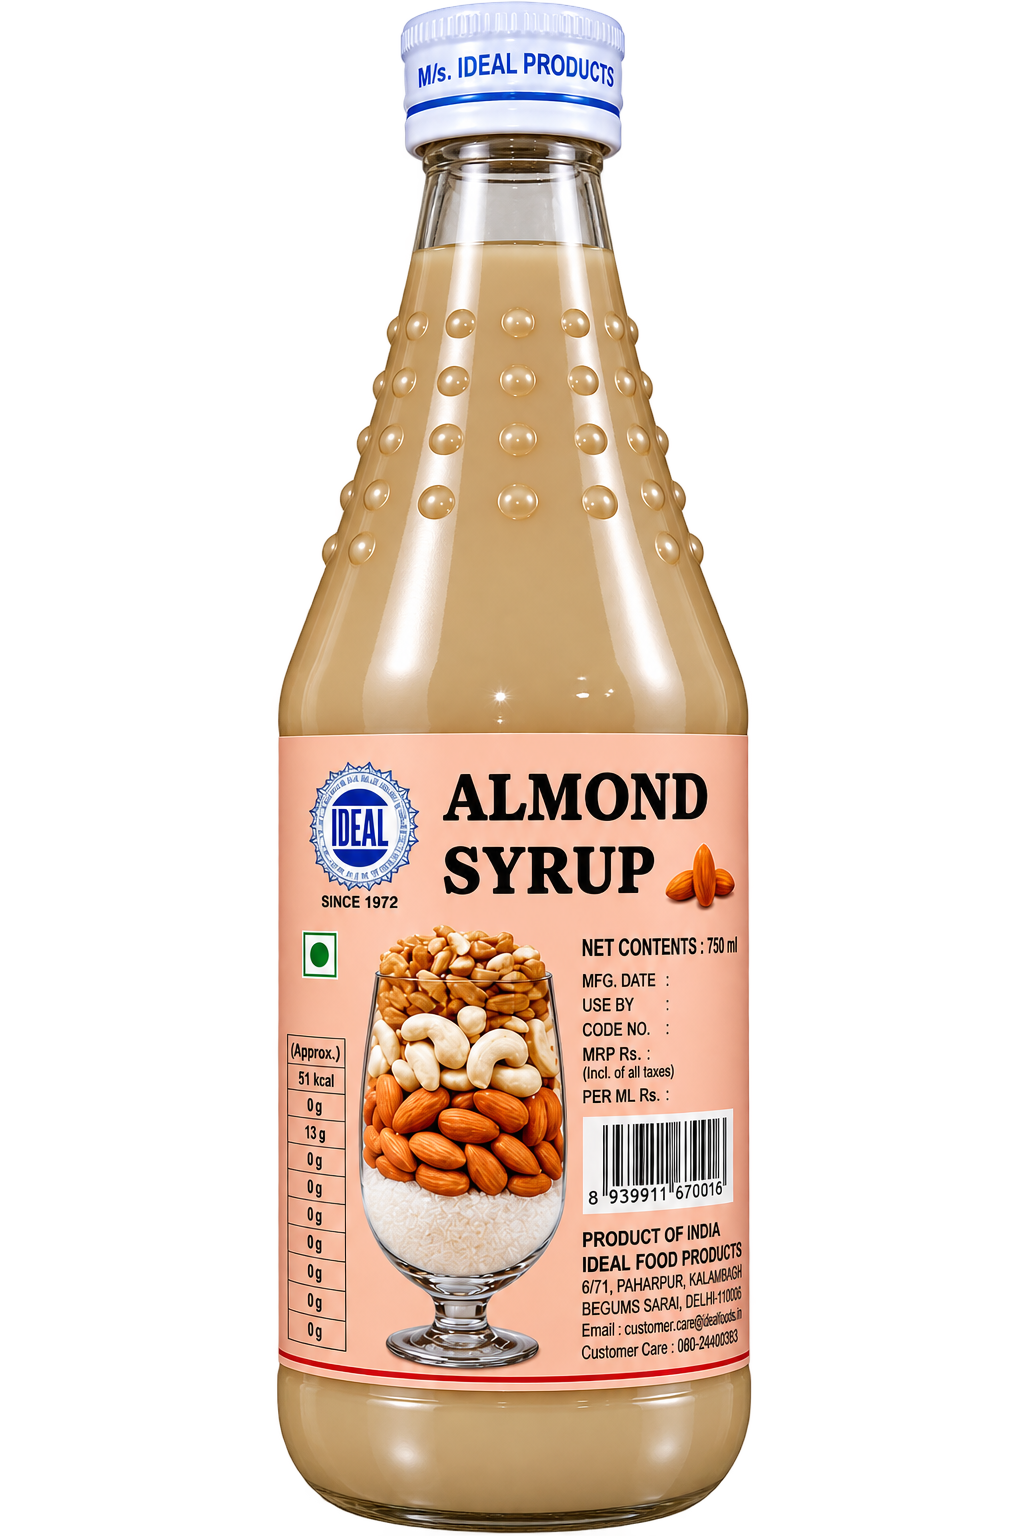
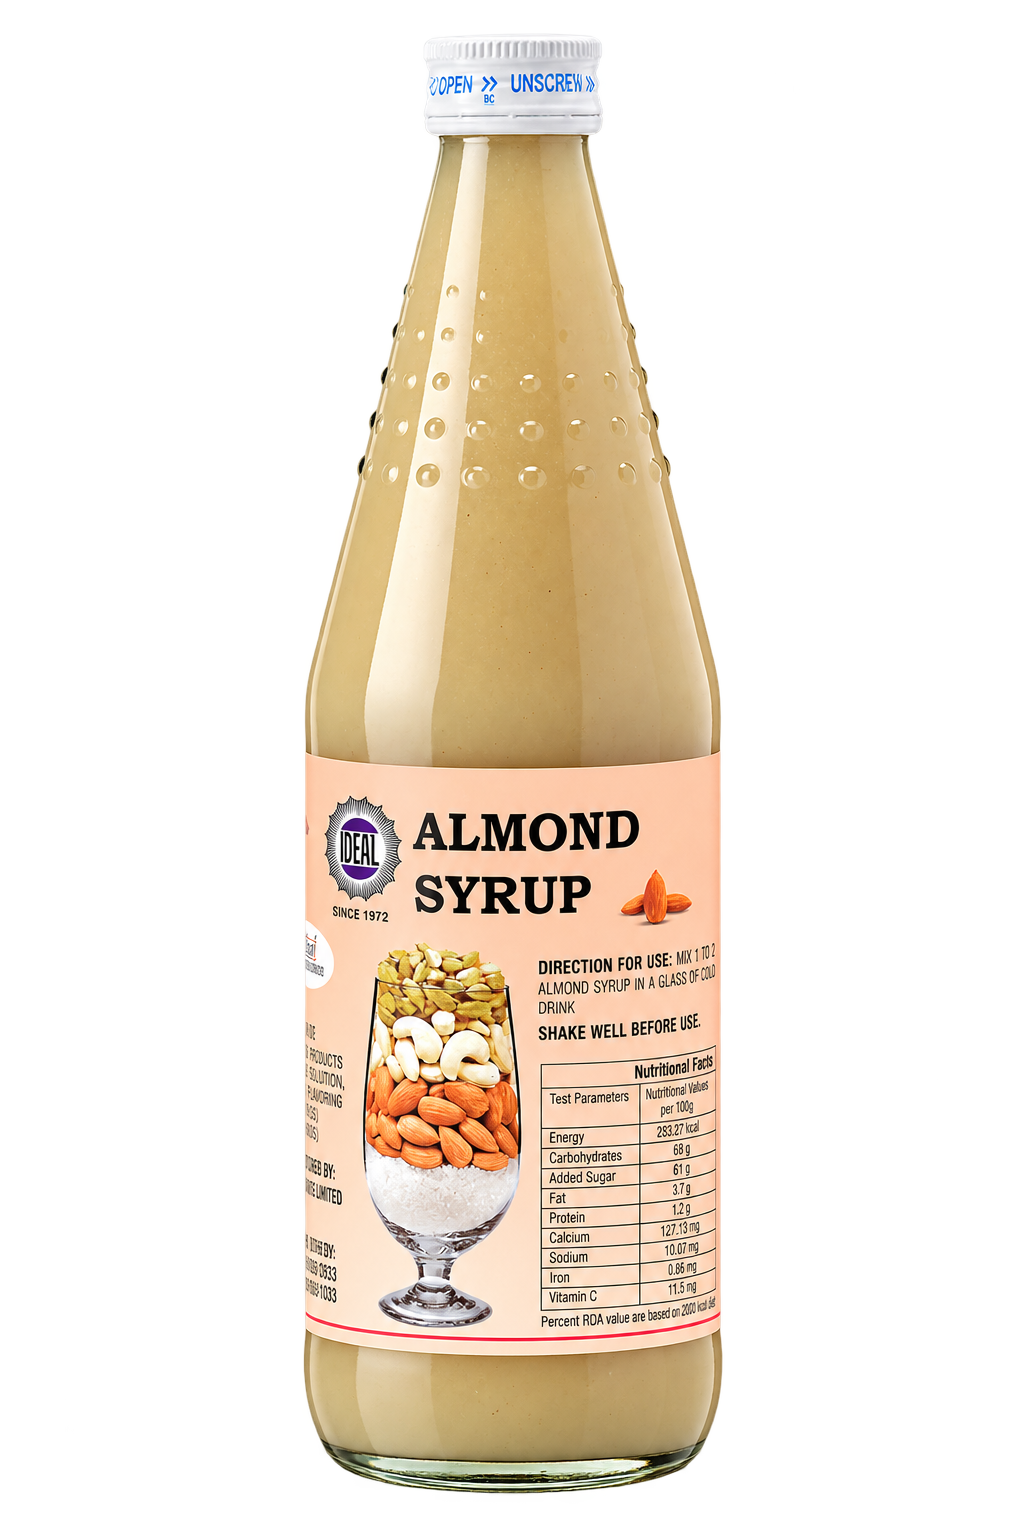
Highlight premium syrups and update product photos

Changed region(s): [[0.25, 0.0, 0.75, 1.0]]

diff --git a/client/pages/Gallery.tsx b/client/pages/Gallery.tsx
@@ -1,3 +1,4 @@
+import PremiumBadge from "@/components/PremiumBadge";
 import { CATALOGUE } from "@/data/catalogue";
 import { CatalogueSection } from "@/components/CatalogueSection";
 import { Link } from "react-router-dom";
@@ -23,18 +24,18 @@ function pastel(hex: string, amount = 0.6): string {
  * Positions follow the reference numbers; slot 15 is the collection enquiry. */
 const MOSAIC_SPANS: { col: number; row: number; cs: number; rs: number }[] = [
   { col: 2, row: 2, cs: 2, rs: 2 },
+  { col: 5, row: 1, cs: 2, rs: 2 },
+  { col: 3, row: 4, cs: 2, rs: 2 },
+  { col: 1, row: 5, cs: 2, rs: 2 },
   { col: 2, row: 1, cs: 1, rs: 1 },
   { col: 1, row: 2, cs: 1, rs: 1 },
   { col: 3, row: 1, cs: 1, rs: 1 },
-  { col: 3, row: 4, cs: 2, rs: 2 },
   { col: 4, row: 3, cs: 1, rs: 1 },
   { col: 1, row: 3, cs: 1, rs: 1 },
   { col: 2, row: 4, cs: 1, rs: 1 },
   { col: 4, row: 2, cs: 1, rs: 1 },
-  { col: 5, row: 1, cs: 2, rs: 2 },
   { col: 5, row: 5, cs: 1, rs: 1 },
   { col: 7, row: 3, cs: 1, rs: 1 },
-  { col: 4, row: 6, cs: 1, rs: 1 },
   { col: 7, row: 2, cs: 1, rs: 1 },
 ];
 
@@ -85,7 +86,7 @@ export default function Gallery() {
         <div className="lg:pt-8">
           <p className="script-accent" style={{ fontSize: 28 }}>Every bottle, every jar</p>
           <h2 className="display-font mt-1" style={{ fontSize: "clamp(30px, 4vw, 48px)", textTransform: "uppercase" }}>Every flavour has a story</h2>
-          <p className="body-ink mt-5 max-w-sm" style={{ fontSize: 15, lineHeight: 1.85 }}>Explore the Ideal shelf in monochrome, then hover to uncover the pastel flavours behind every bottle and jar.</p>
+          <p className="body-ink mt-5 max-w-sm" style={{ fontSize: 15, lineHeight: 1.85 }}>Discover our Premium Collection in the four larger photo tiles: Badam Thandai, Pista, Badam Kesar and Almond. Explore every bottle and jar below.</p>
         </div>
 
         {/* Desktop collage follows the supplied staggered square layout. */}
@@ -104,6 +105,7 @@ export default function Gallery() {
               <Link
                 key={`${product.line.key}-${product.slug}`}
                 to={`${product.line.detailBase}/${product.slug}`}
+                data-premium={product.premium || undefined}
                 className="gallery-tile group relative overflow-hidden rounded-sm border border-[#2E1F14]/20 focus-visible:outline focus-visible:outline-2 focus-visible:outline-offset-2 focus-visible:outline-[#2E1F14]"
                 style={{
                   backgroundColor: "rgba(255,255,255,0.66)",
@@ -113,8 +115,9 @@ export default function Gallery() {
                 }}
                 aria-label={`View ${product.name} ${product.line.suffix}`}
               >
-                <img src={product.cardImage ?? product.image} alt={`Ideal ${product.name}${product.omitSuffix ? "" : ` ${product.line.suffix}`}`} className="absolute inset-0 h-full w-full object-contain p-1.5 transition duration-500 ease-out group-hover:scale-110" />
-                <span className="absolute inset-x-0 bottom-0 bg-gradient-to-t from-black/70 to-transparent px-1 pb-1 pt-4 text-[9px] font-extrabold uppercase leading-tight text-white opacity-0 transition-opacity duration-300 group-hover:opacity-100 group-focus-visible:opacity-100">{product.name}</span>
+                {product.premium && <span className="absolute left-2 top-2 z-10"><PremiumBadge /></span>}
+              <img src={product.cardImage ?? product.image} alt={`Ideal ${product.name}${product.omitSuffix ? "" : ` ${product.line.suffix}`}`} className="absolute inset-0 h-full w-full object-contain p-1.5 transition duration-500 ease-out group-hover:scale-110" />
+                <span className="absolute inset-x-0 bottom-0 bg-gradient-to-t from-black/70 to-transparent px-1 pb-1 pt-4 text-[9px] font-extrabold uppercase leading-tight text-white transition-opacity duration-300 opacity-100 group-focus-visible:opacity-100">{product.name}</span>
               </Link>
             );
           })}
@@ -134,7 +137,8 @@ export default function Gallery() {
             <Link
               key={`${product.line.key}-${product.slug}`}
               to={`${product.line.detailBase}/${product.slug}`}
-              className="gallery-tile group relative overflow-hidden rounded-2xl"
+              data-premium={product.premium || undefined}
+                className="gallery-tile group relative overflow-hidden rounded-2xl"
               style={{
                 backgroundColor: "rgba(255,255,255,0.66)",
                 aspectRatio: "1 / 1",
@@ -142,8 +146,9 @@ export default function Gallery() {
               }}
               aria-label={`View ${product.name} ${product.line.suffix}`}
             >
+              {product.premium && <span className="absolute left-2 top-2 z-10"><PremiumBadge /></span>}
               <img src={product.cardImage ?? product.image} alt={`Ideal ${product.name} ${product.line.suffix}`} className="absolute inset-0 h-full w-full object-contain p-3 transition duration-500 ease-out group-hover:scale-110" />
-              <span className="absolute inset-x-0 bottom-0 bg-gradient-to-t from-black/55 to-transparent px-3 pb-3 pt-8 text-xs font-extrabold uppercase tracking-[0.12em] text-white opacity-0 transition-opacity duration-300 group-hover:opacity-100">{product.name}</span>
+              <span className="absolute inset-x-0 bottom-0 bg-gradient-to-t from-black/55 to-transparent px-3 pb-3 pt-8 text-xs font-extrabold uppercase tracking-[0.12em] text-white transition-opacity duration-300 opacity-100">{product.name}</span>
             </Link>
           ))}
         </div>

diff --git a/client/data/products.ts b/client/data/products.ts
@@ -1,6 +1,7 @@
 import { CATALOGUE } from "./catalogue";
 
 export interface Product {
+  premium?: boolean;
   slug: string;
   /** Full label name, e.g. "Non-Fruit Orange" or "Mango" */
   name: string;
@@ -61,11 +62,12 @@ export const SYRUP_LINE: ProductLine = {
     },
     {
       slug: "pista",
+      premium: true,
       name: "Pista",
       short: "PISTA",
       bg: "#6BBF7A",
       panel: "#85CC92",
-      image: "/bottles/pista.png",
+      image: "/bottles/pista1.png",
       cardImage: "/pista.png",
       tagline: "Nutty. Green. Divine.",
       description: CATALOGUE["Pista Syrup"].join("\n\n"),
@@ -87,11 +89,12 @@ export const SYRUP_LINE: ProductLine = {
     },
     {
       slug: "badam-kesar",
+      premium: true,
       name: "Exotic Badam Kesar",
       short: "KESAR",
       bg: "#E9A13B",
       panel: "#EFB45E",
-      image: "/bottles/kesar.png",
+      image: "/bottles/kesar1.png",
       cardImage: "/kesar.png",
       tagline: "Almonds meet saffron gold",
       description: CATALOGUE["Exotic Badam Kesar Syrup"].join("\n\n"),
@@ -100,12 +103,13 @@ export const SYRUP_LINE: ProductLine = {
     },
     {
       slug: "badam-thandai",
-      name: "Classic Thandai",
+      premium: true,
+      name: "Badam Thandai",
       short: "THANDAI",
       cardBg: "#E8BC42",
       bg: "#CDA16B",
       panel: "#D9B283",
-      image: "/bottles/thandai.png",
+      image: "/bottles/thandai1.png",
       cardImage: "/thandai.png",
       tagline: "The festival classic",
       description: CATALOGUE["Classic Thandai Syrup"].join("\n\n"),
@@ -127,11 +131,12 @@ export const SYRUP_LINE: ProductLine = {
     },
     {
       slug: "almond",
+      premium: true,
       name: "Almond",
       short: "ALMOND",
       bg: "#EDCB92",
       panel: "#F3DAAA",
-      image: "/bottles/almond.png",
+      image: "/bottles/almond1.png",
       cardImage: "/almond.png",
       tagline: "Smooth, nutty, timeless",
       description: CATALOGUE["Almond Syrup"].join("\n\n"),
@@ -194,6 +199,16 @@ export const SYRUP_LINE: ProductLine = {
     },
   ],
 };
+
+// Premium syrups lead the carousel, shelf and gallery.
+const PREMIUM_ORDER = ["badam-thandai", "pista", "badam-kesar", "almond"];
+SYRUP_LINE.items.sort((a, b) => {
+  const rank = (p: Product) => {
+    const index = PREMIUM_ORDER.indexOf(p.slug);
+    return index < 0 ? PREMIUM_ORDER.length : index;
+  };
+  return rank(a) - rank(b);
+});
 
 export const PICKLE_LINE: ProductLine = {
   key: "pickles",

diff --git a/client/components/ProductGrid.tsx b/client/components/ProductGrid.tsx
@@ -150,11 +150,27 @@ export default function ProductGrid({ lineKey }: { lineKey: "syrups" | "pickles"
   const line = PRODUCT_LINES.find((l) => l.key === lineKey);
   if (!line) return null;
 
-  return (
-    <div className="mt-10 grid grid-cols-2 gap-x-6 gap-y-12 sm:gap-x-10 lg:grid-cols-4">
-      {line.items.map((p: Product, i: number) => (
+  const premium = line.items.filter((p) => p.premium);
+  const classics = line.items.filter((p) => !p.premium);
+  const cards = (items: Product[]) => (
+    <div className="mt-8 grid grid-cols-2 gap-x-6 gap-y-12 sm:gap-x-10 lg:grid-cols-4">
+      {items.map((p, i) => (
         <ProductCard key={p.slug} p={p} suffix={line.suffix} detailBase={line.detailBase} idx={i} />
       ))}
+    </div>
+  );
+  return (
+    <div className="mt-10">
+      {premium.length > 0 && (
+        <section className="rounded-3xl border border-[#B98A36]/40 bg-[#FFF8E8]/80 px-4 py-8 sm:px-8" aria-label="Premium syrup collection">
+          <p className="text-center text-xs font-bold uppercase tracking-[0.24em] text-[#8A601C]">Our finest pours</p>
+          <h4 className="display-font mt-2 text-center text-3xl text-[#302316]">Premium Collection</h4>
+          <p className="mt-3 text-center text-sm text-[#5C4636]">Four special syrups for moments of indulgence.</p>
+          {cards(premium)}
+        </section>
+      )}
+      {premium.length > 0 && <h4 className="display-font mt-12 text-2xl">Explore More Syrups</h4>}
+      {cards(classics)}
     </div>
   );
 }

diff --git a/client/components/ProductCarousel.tsx b/client/components/ProductCarousel.tsx
@@ -1,3 +1,4 @@
+import PremiumBadge from "./PremiumBadge";
 import { useEffect, useRef, useState } from "react";
 import { Link } from "react-router-dom";
 import { ArrowLeft, ArrowRight } from "lucide-react";
@@ -281,6 +282,7 @@ export default function ProductCarousel({ line }: { line: ProductLine }) {
               textShadow: "0 2px 14px rgba(0,0,0,0.35), 0 1px 3px rgba(0,0,0,0.3)",
             }}
           >
+            {active.premium && <span className="mb-2 block"><PremiumBadge /></span>}
             IDEAL {active.name}{active.omitSuffix ? "" : ` ${line.suffix}`}
           </p>
           <p

diff --git a/client/pages/ProductDetail.tsx b/client/pages/ProductDetail.tsx
@@ -1,3 +1,4 @@
+import PremiumBadge from "@/components/PremiumBadge";
 import { useEffect, useState } from "react";
 import { Link, useParams } from "react-router-dom";
 import { ArrowLeft } from "lucide-react";
@@ -108,6 +109,7 @@ export default function ProductDetail({ line }: { line: ProductLine }) {
             >
               IDEAL · SINCE 1972
             </p>
+            {product.premium && <div className="mt-3"><PremiumBadge /></div>}
             <h1
               className="animate-fade-up mt-2"
               style={{

diff --git a/client/components/PremiumBadge.tsx b/client/components/PremiumBadge.tsx
@@ -1,0 +1,9 @@
+import { Crown } from "lucide-react";
+
+export default function PremiumBadge() {
+  return (
+    <span className="inline-flex items-center gap-1.5 rounded-full border border-[#D9B568] bg-[#302316] px-3 py-1.5 text-[10px] font-bold uppercase tracking-[0.14em] text-[#F8DEA0] shadow-sm">
+      <Crown size={12} aria-hidden="true" /> Premium
+    </span>
+  );
+}

diff --git a/client/global.css b/client/global.css
@@ -485,3 +485,12 @@
     white-space: pre;
   }
 }
+
+/* Premium photos stay in colour so the collection stands out at a glance. */
+.gallery-tile[data-premium] {
+  border: 1px solid #B98A36;
+  background: #FFF8E8 !important;
+}
+.gallery-tile[data-premium] img {
+  filter: none;
+}
